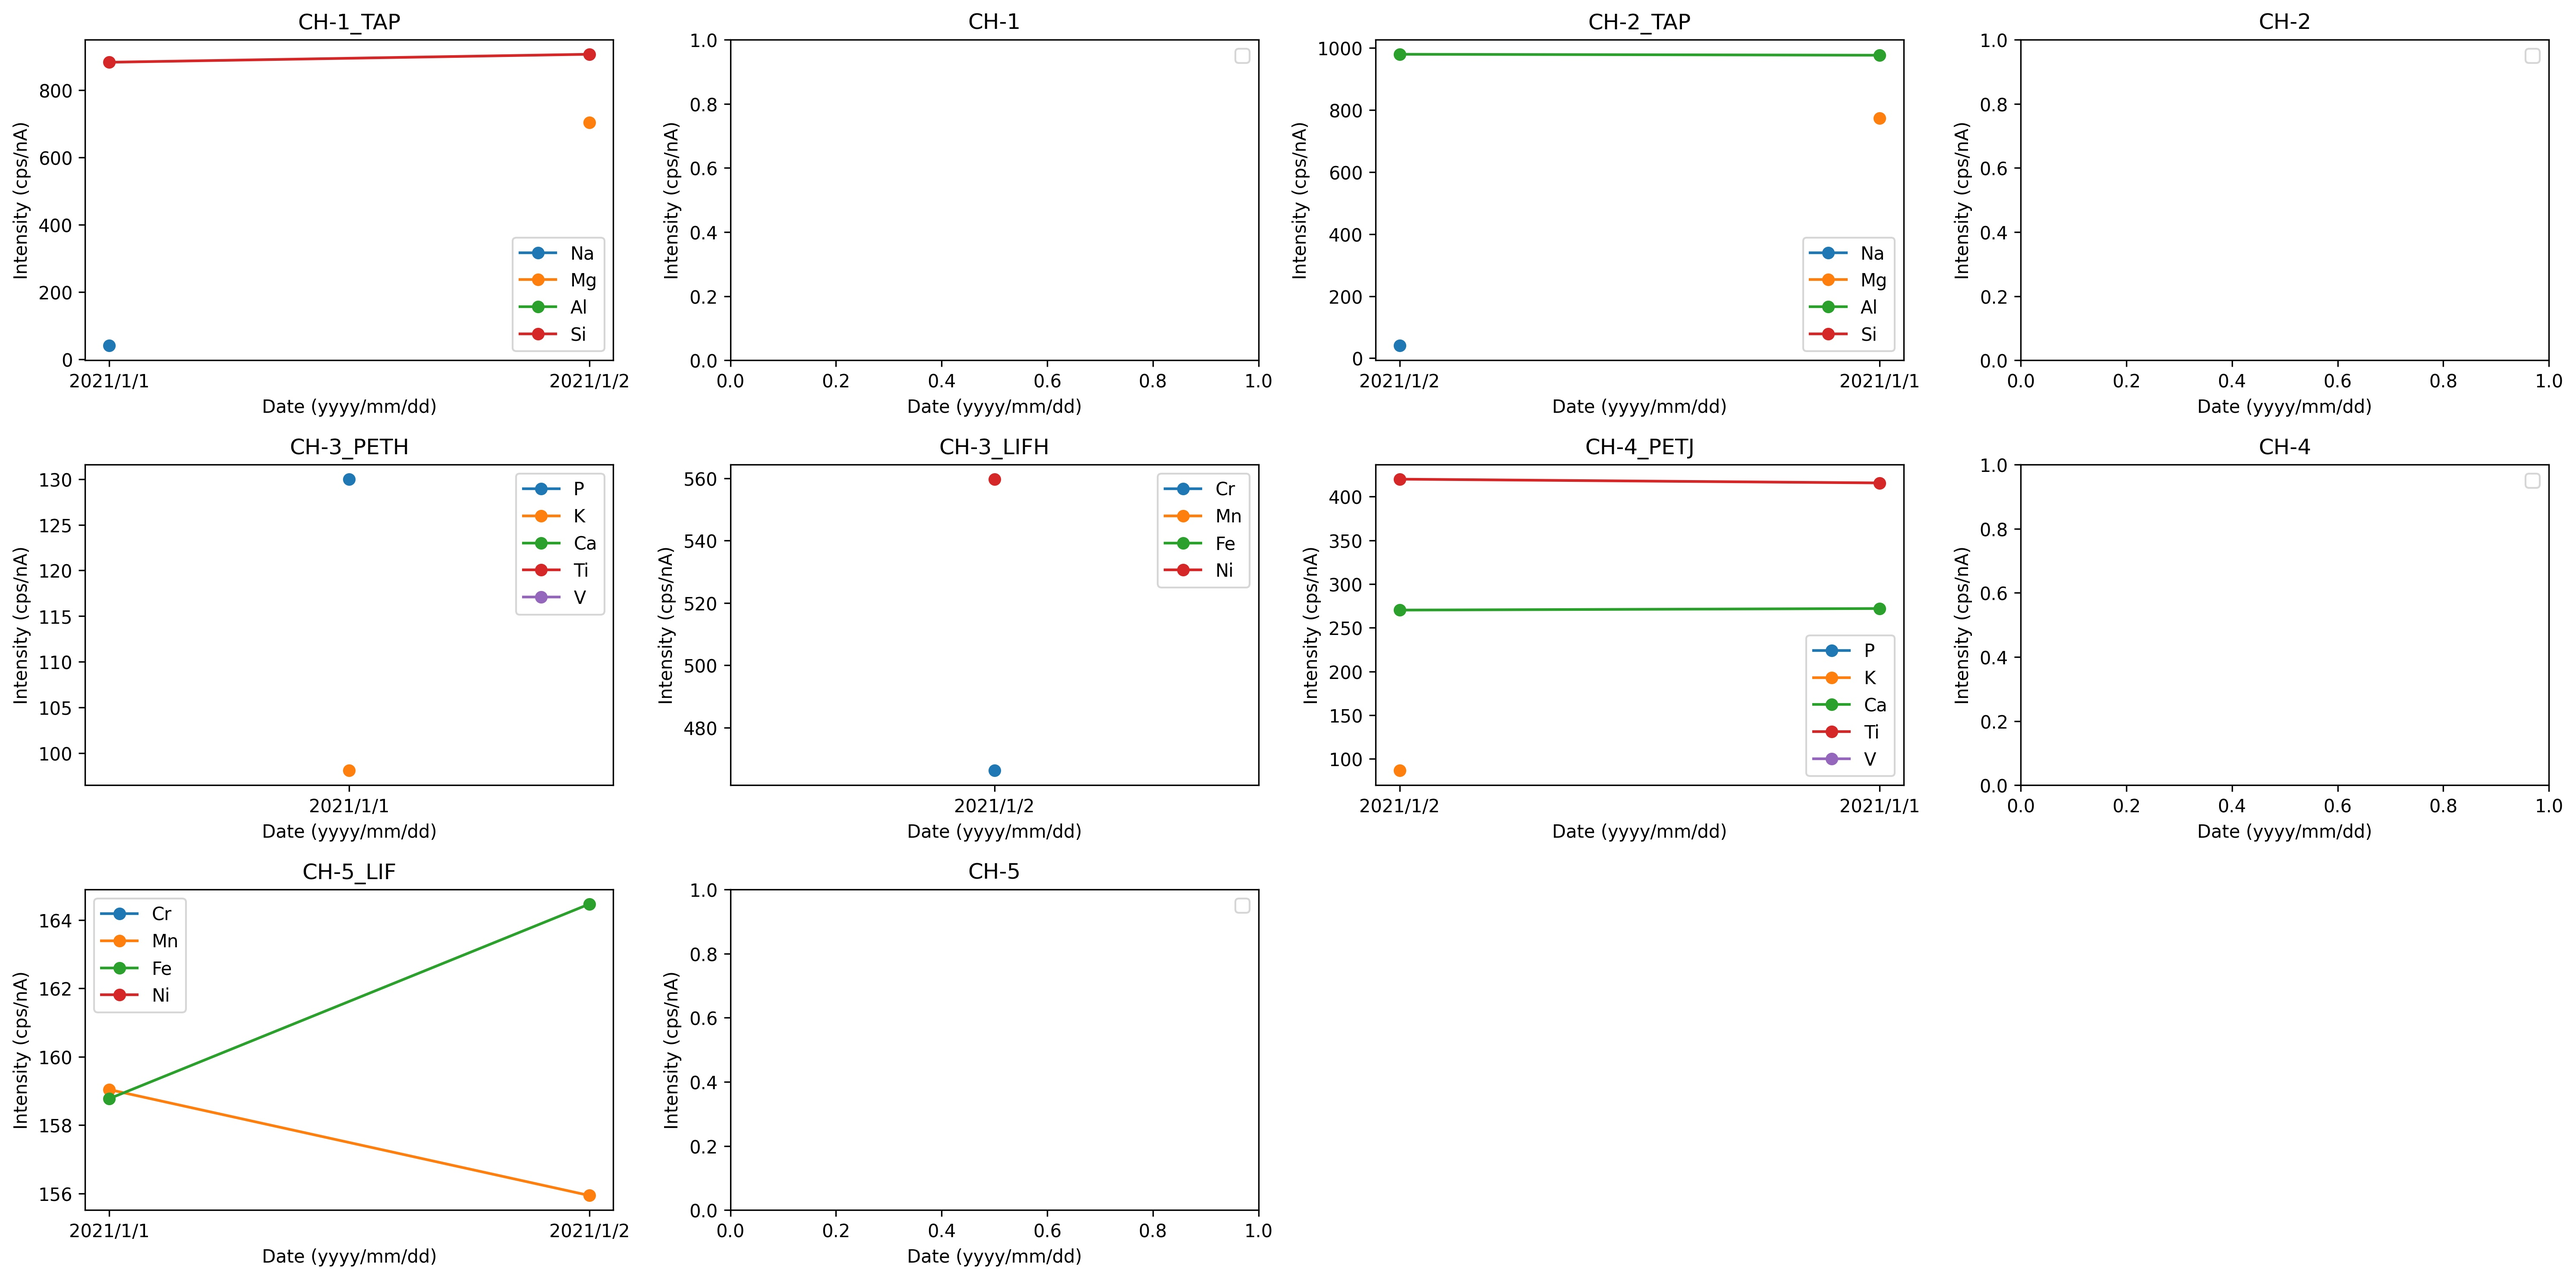
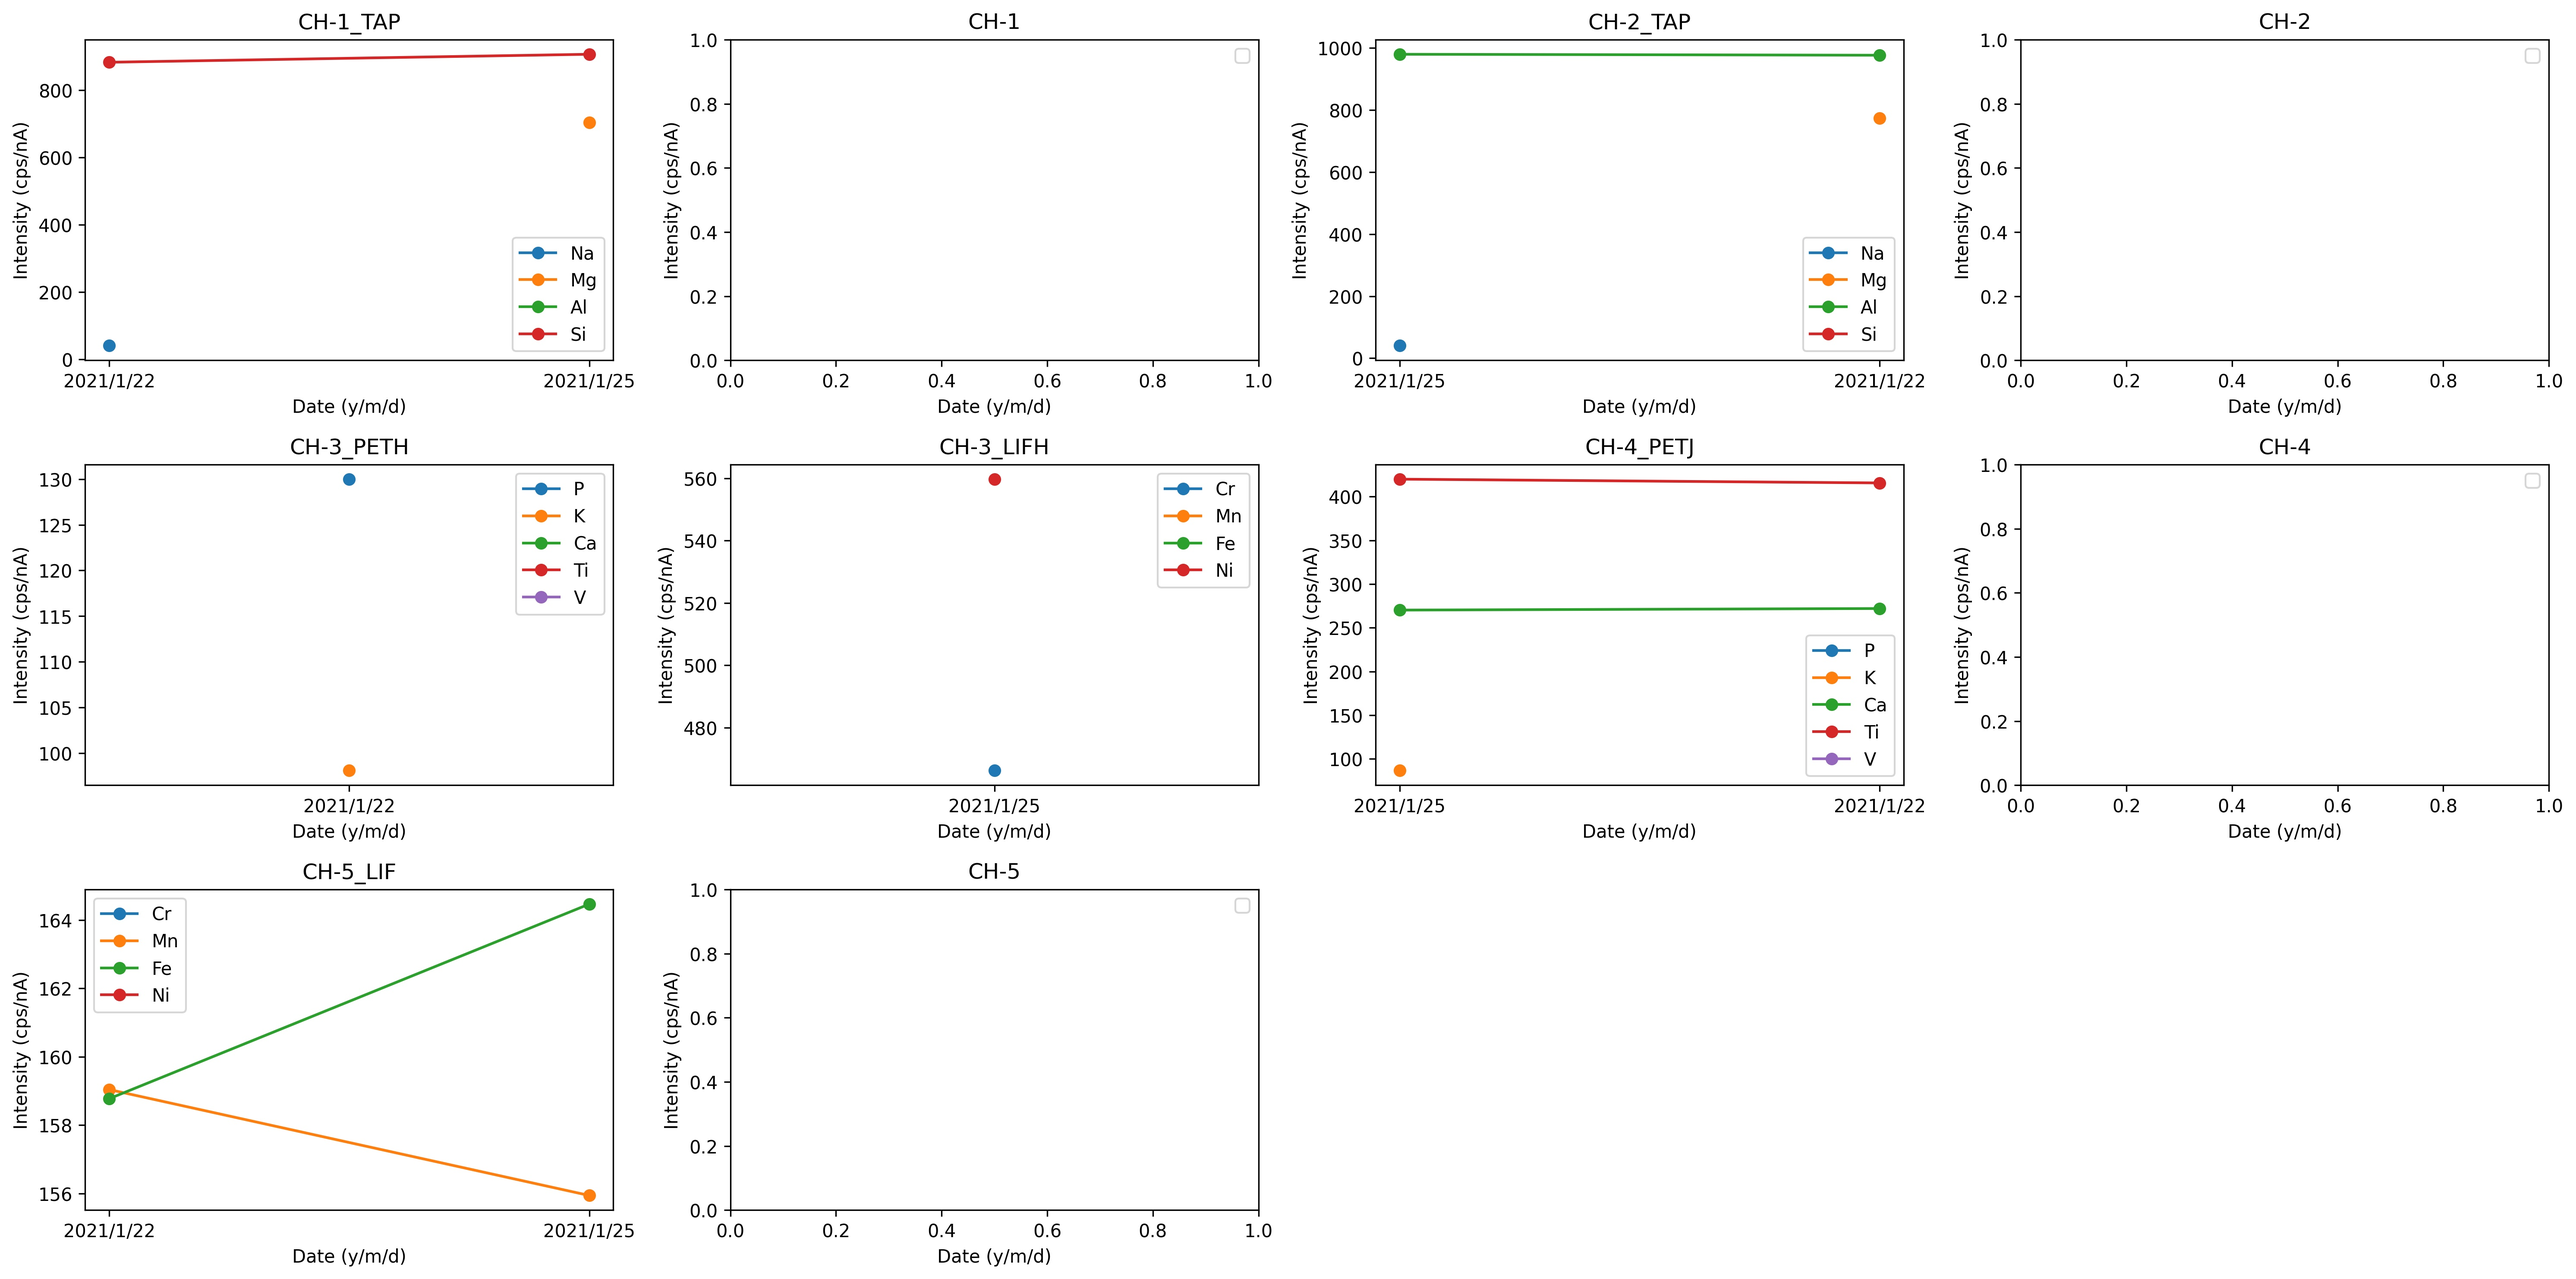
Add files via upload

diff --git a/epma_monitor_15kV.py b/epma_monitor_15kV.py
@@ -12,8 +12,8 @@ def select_element(df, element):
     return df_element
 
 def make_plotdata(df):
-    date = df["date (yyyy/mm/dd)"]
-    intensity = df["net (count per sec)"] / df["prove_corrent (nA)"]
+    date = df["date (y/m/d)"]
+    intensity = df["net (count per sec)"] / df["probe_corrent (nA)"]
     return date, intensity
 
 # データをプロットする
@@ -79,7 +79,7 @@ def main():
         ax = fig.add_subplot(3,4,num+1)
         ax.set_title(ch_crystal)
         plot_data(ax, ch_crystal, df)
-        ax.set_xlabel("Date (yyyy/mm/dd)")
+        ax.set_xlabel("Date (y/m/d)")
         ax.set_ylabel("Intensity (cps/nA)")
         ax.legend()
     # グラフタイトルと軸ラベルが重なることを防ぐ
